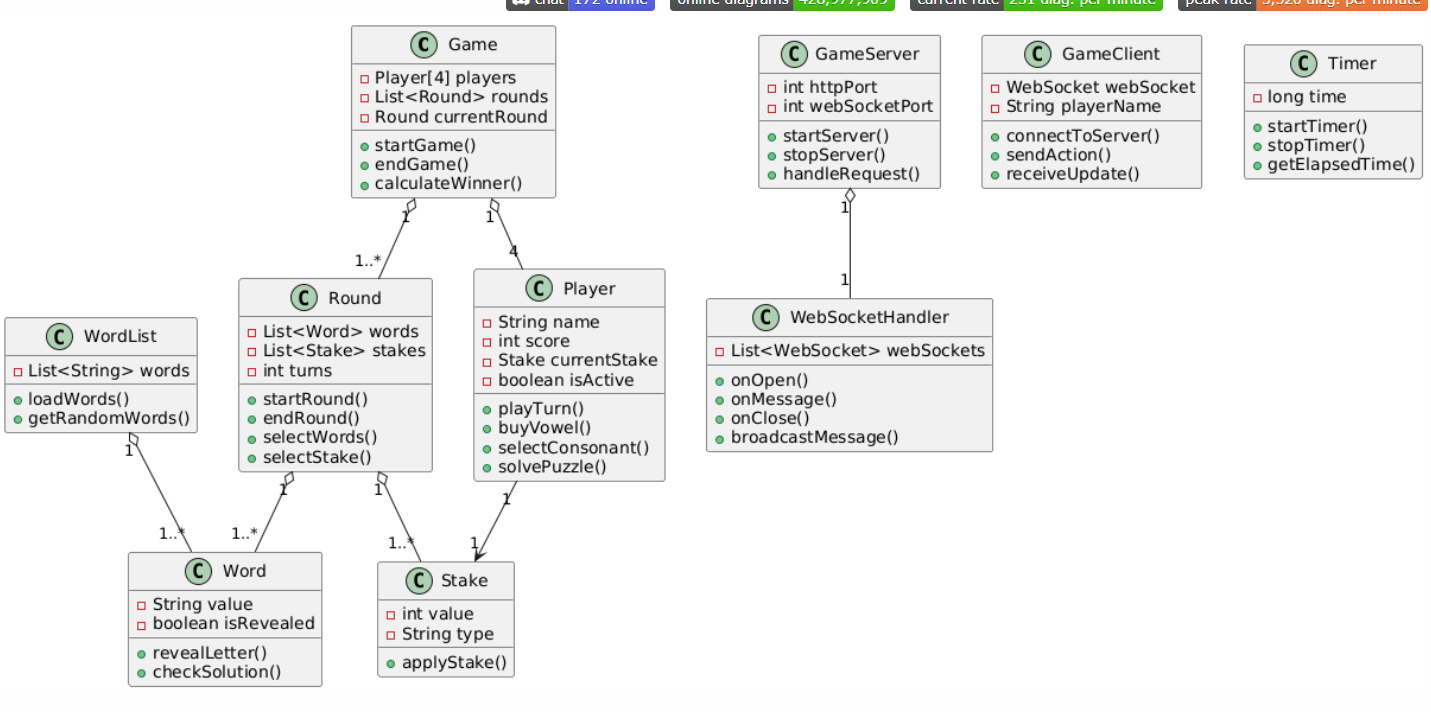
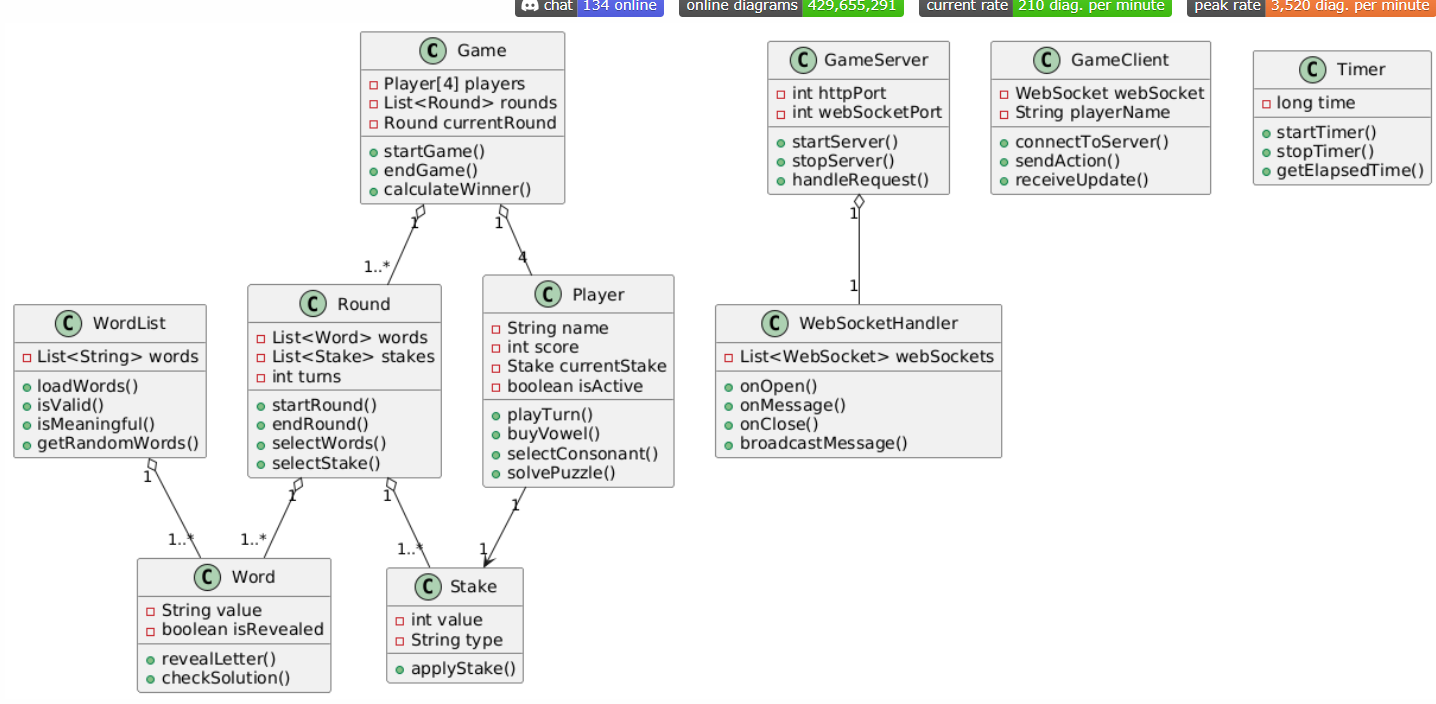
Add files via upload

Changed region(s): [[0.0, 0.0, 1.0, 1.0]]

diff --git a/project/src/main/java/WordList.java b/project/src/main/java/WordList.java
@@ -2,7 +2,7 @@ import java.util.List;
 
 public class WordList {
     private List<String> words;
-
+  
     public int loadWords() {
         // Implementation here
         return 0;
@@ -12,4 +12,14 @@ public class WordList {
         // Implementation here
         return 0;
     }
+    public boolean isValid(String word) {
+       
+        return false;
+    }
+    public boolean isMeaningful(String phrase) {
+      
+        return false;
+    }
 }
+
+    

diff --git a/project/src/main/java/webserver_socket.java b/project/src/main/java/webserver_socket.java
@@ -4,7 +4,7 @@ import org.java_websocket.server.WebSocketServer;
 
 import java.net.InetSocketAddress;
 
-public class webserver_socket extends WebSocketServer {
+public class webserver_socket extends WebSoketServer {
     public static final int SERVER_PORT=8080;
 
     public static void main(String[] args) {
